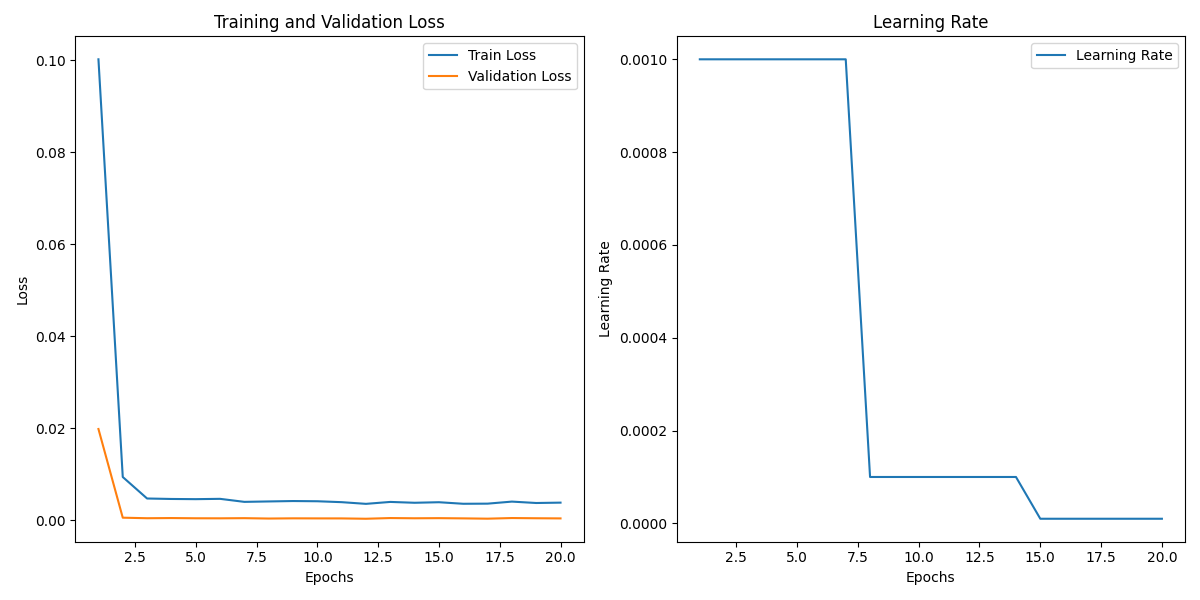
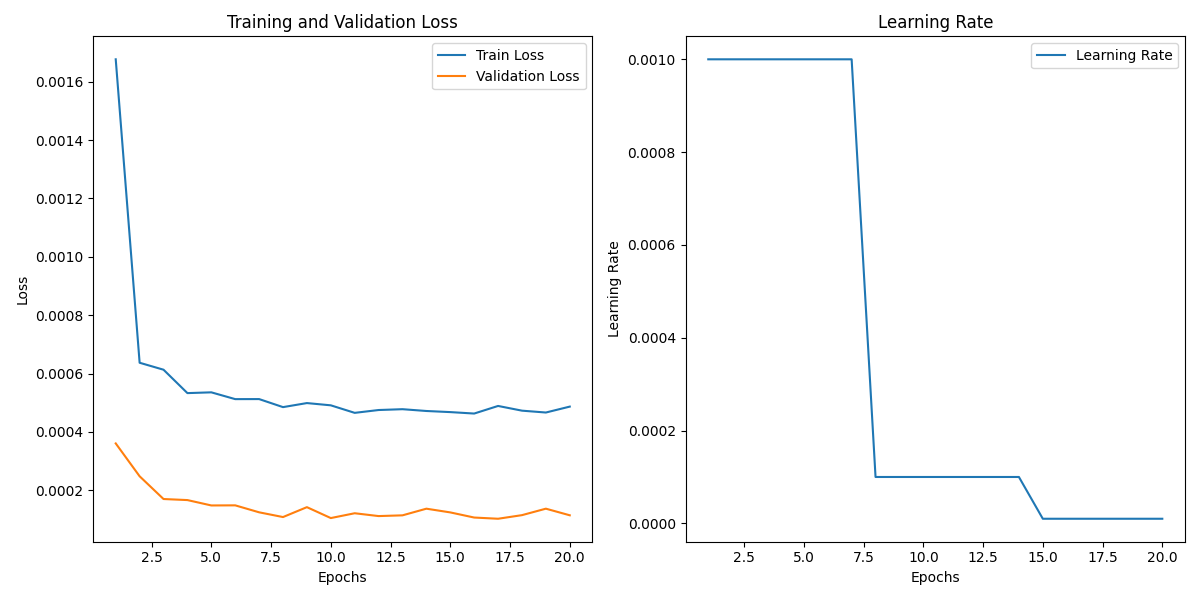
revert to evolution prediction

diff --git a/data/data_utils.py b/data/data_utils.py
@@ -27,18 +27,22 @@ def get_historical_data(symbol, timeframe, start_date, end_date, limit=10000):
 
 def prepare_data(symbol, start_date, end_date, timeframe, is_filter=False, limit=4000, is_training=True, sc=None):
     df = get_historical_data(symbol, timeframe, start_date, end_date, limit)
+
+    df['close_pct_change'] = df['close'].pct_change().fillna(0)
     
     # Scale data
     if is_training:
         sc = MinMaxScaler(feature_range=(0, 1))
         sc.fit(df[['open', 'high', 'low', 'close', 'volume']])
     dataset_scaled = sc.transform(df[['open', 'high', 'low', 'close', 'volume']])
-    dataset_scaled = pd.DataFrame(dataset_scaled, columns=['open', 'high', 'low', 'close', 'volume'])
+    dataset_scaled = pd.DataFrame(dataset_scaled, columns=['open', 'high', 'low', 'close', 'volume'], index= df['time'])
+    dataset_scaled['close_pct_change'] = df['close_pct_change']
+
     return df, dataset_scaled, sc
 
 def create_test_loader(dataset_scaled, backcandles):
     X_dataset = dataset_scaled[['open', 'high', 'low', 'close', 'volume']]
-    y_dataset = dataset_scaled[['close']].values
+    y_dataset = dataset_scaled[['close_pct_change']].values
 
     # Sliding window feature set
     X, y = [], []
@@ -46,12 +50,13 @@ def create_test_loader(dataset_scaled, backcandles):
         window = [X_dataset.iloc[i-backcandles:i, j].values for j in range(X_dataset.shape[1])]
         X.append(np.array(window))
     X, y = np.array(X).transpose(0, 2, 1), np.array(y_dataset[1 + backcandles:, -1]).reshape(-1, 1)
+
     test_dataset = TensorDataset(torch.tensor(X, dtype=torch.float32), torch.tensor(y, dtype=torch.float32))
     return DataLoader(test_dataset, batch_size=1, shuffle=False)
 
 def training_loaders(dataset_scaled, backcandles, train_ratio=0.94):
     X_dataset = dataset_scaled[['open', 'high', 'low', 'close', 'volume']]
-    y_dataset = dataset_scaled[['close']].values
+    y_dataset = dataset_scaled[['close_pct_change']].values
 
     # Create sliding window feature set
     X = []
